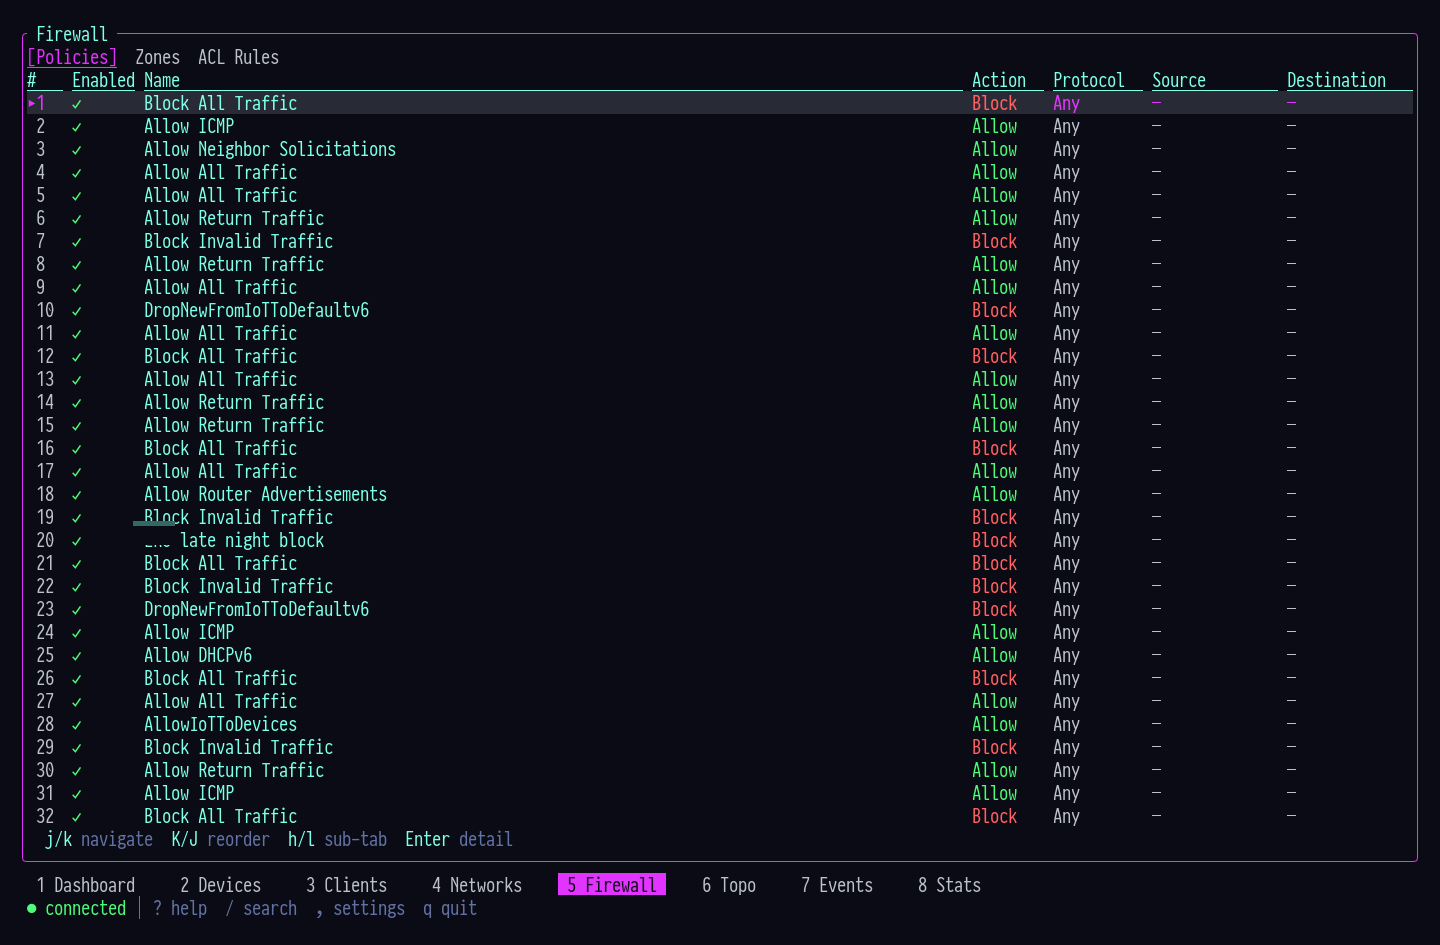
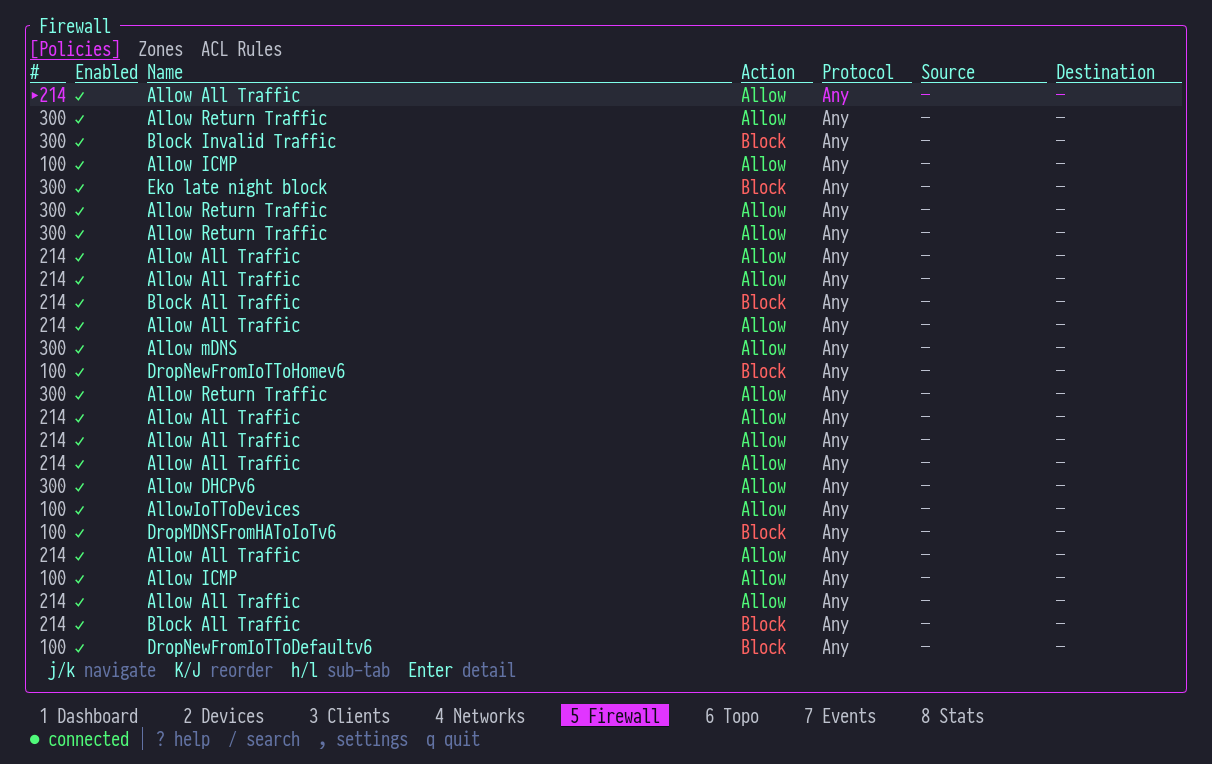
docs: refresh README screenshots and expand TUI documentation
Capture fresh screenshots of all 8 TUI screens with sensitive data
redacted (WAN IPs, family member hostnames). Expand README with
comprehensive keybinding tables, stats screen documentation, and
updated feature descriptions reflecting recent work.

Changed region(s): [[0.0, 0.0301, 1.0, 0.9935]]

diff --git a/README.md b/README.md
@@ -45,15 +45,16 @@ The Integration API handles CRUD. The Legacy API fills the gaps with events, sta
 
 | Capability | What You Get |
 | --- | --- |
-| 🔮 **Dual API Engine** | Integration API (REST, API key) + Legacy API (session, cookie/CSRF) — automatic negotiation |
-| ⚡ **Real-Time TUI** | btop-inspired dashboard with Braille traffic charts, CPU/MEM bars, live client counts |
-| 🦋 **20+ Resource Types** | Devices, clients, networks, WiFi, firewall policies, zones, ACLs, DNS, VPN, hotspot vouchers, DPI... |
+| 🔮 **Dual API Engine** | Integration API (REST, API key) + Legacy API (session, cookie/CSRF) — automatic negotiation with Hybrid mode |
+| ⚡ **Real-Time TUI** | 8-screen dashboard with area-fill traffic charts, CPU/MEM gauges, live client counts, zoomable topology |
+| 🦋 **22 Resource Types** | Devices, clients, networks, WiFi, firewall policies, zones, ACLs, DNS, VPN, hotspot vouchers, DPI, RADIUS... |
 | 💎 **Flexible Output** | Table, JSON, compact JSON, YAML, and plain text — pipe-friendly for scripting |
 | 🔒 **Secure Credentials** | OS keyring storage for API keys and passwords — nothing in plaintext |
 | 🌐 **Multi-Profile** | Named profiles for multiple controllers — switch with a single flag |
 | 🧠 **Smart Config** | Interactive wizard, environment variables, TOML config, CLI overrides — pick your style |
-| 📡 **WebSocket Events** | Live event streaming with severity filtering and real-time push |
-| 📊 **Historical Stats** | Gateway bandwidth, client counts, site stats — 1h to 30d time windows |
+| 📡 **WebSocket Events** | Live event streaming with 10K rolling buffer, severity filtering, pause/scroll-back |
+| 📊 **Historical Stats** | WAN bandwidth area fills, client counts, DPI app/category breakdown — 1h to 30d windows |
+| 🎨 **SilkCircuit Theme** | Neon-on-dark color palette with semantic highlighting, ANSI fallback, responsive layouts |
 
 ---
 
@@ -162,28 +163,28 @@ Best of both worlds — API key for Integration API CRUD, username/password for 
 
 | Command | Alias | Description |
 | --- | --- | --- |
-| `devices` | `d` | Manage adopted and pending devices |
-| `clients` | `cl` | Manage connected clients |
-| `networks` | `n` | Manage networks and VLANs |
-| `wifi` | `w` | Manage WiFi broadcasts (SSIDs) |
-| `firewall` | `fw` | Manage firewall policies and zones |
 | `acl` | | Manage ACL rules |
-| `dns` | | Manage DNS policies (local records) |
-| `traffic-lists` | | Manage traffic matching lists |
-| `hotspot` | | Manage hotspot vouchers |
-| `vpn` | | View VPN servers and tunnels |
-| `sites` | | Manage sites |
-| `events` | | View and stream events |
+| `admin` | | Administrator management |
 | `alarms` | | Manage alarms |
+| `clients` | `cl` | Manage connected clients |
+| `completions` | | Generate shell completions |
+| `config` | | Manage CLI configuration |
+| `countries` | | List available country codes |
+| `devices` | `d` | Manage adopted and pending devices |
+| `dns` | | Manage DNS policies (local records) |
+| `dpi` | | DPI reference data |
+| `events` | | View and stream events |
+| `firewall` | `fw` | Manage firewall policies and zones |
+| `hotspot` | | Manage hotspot vouchers |
+| `networks` | `n` | Manage networks and VLANs |
+| `radius` | | View RADIUS profiles |
+| `sites` | | Manage sites |
 | `stats` | | Query statistics and reports |
 | `system` | `sys` | System operations and info |
-| `admin` | | Administrator management |
-| `dpi` | | DPI reference data |
-| `radius` | | View RADIUS profiles |
+| `traffic-lists` | | Manage traffic matching lists |
+| `vpn` | | View VPN servers and tunnels |
 | `wans` | | View WAN interfaces |
-| `countries` | | List available country codes |
-| `config` | | Manage CLI configuration |
-| `completions` | | Generate shell completions |
+| `wifi` | `w` | Manage WiFi broadcasts (SSIDs) |
 
 Most commands support `list`, `get`, `create`, `update`, and `delete` subcommands. Run `unifly <command> --help` for details.
 
@@ -219,11 +220,12 @@ unifly completions fish > ~/.config/fish/completions/unifly.fish
 
 ## 🖥 TUI
 
-The `unifly-tui` binary is a real-time terminal dashboard for monitoring your UniFi network.
+The `unifly-tui` binary is a real-time terminal dashboard for monitoring and managing your UniFi network. Eight screens cover everything from live bandwidth charts to firewall policy management.
 
 ```bash
 unifly-tui                   # Launch with default profile
 unifly-tui -p office         # Use a specific profile
+unifly-tui -k                # Accept self-signed TLS certs
 unifly-tui -v                # Verbose logging
 ```
 
@@ -233,51 +235,102 @@ Navigate with number keys `1`–`8` or `Tab`/`Shift+Tab`:
 
 | Key | Screen | Description |
 | --- | --- | --- |
-| `1` | **Dashboard** | btop-style overview — WAN traffic chart, gateway info, system health, networks with IPv6, top clients, recent events |
-| `2` | **Devices** | Adopted devices with model, firmware, IP, uptime, CPU/MEM, client counts |
-| `3` | **Clients** | Connected clients — hostname, IP, MAC, VLAN, signal strength, traffic |
-| `4` | **Networks** | VLAN topology — subnets, DHCP ranges, IPv6 config, IGMP settings |
-| `5` | **Firewall** | Policies and zones with rule counts and traffic direction |
-| `6` | **Topology** | Network topology tree view |
-| `7` | **Events** | Live event stream with severity indicators |
-| `8` | **Stats** | Historical charts — WAN bandwidth, client counts, DPI breakdown |
+| `1` | **Dashboard** | btop-style overview — area-fill WAN traffic chart, gateway info, connectivity health, CPU/MEM bars, networks with IPv6, WiFi AP experience, top clients, recent events |
+| `2` | **Devices** | Adopted devices with model, IP, CPU/MEM, TX/RX, uptime — 5-tab detail panel (Overview, Performance, Radios, Clients, Ports) |
+| `3` | **Clients** | Connected clients — hostname, IP, MAC, VLAN, signal bars, traffic — filterable by type (All/Wireless/Wired/VPN/Guest) |
+| `4` | **Networks** | VLAN topology — subnets, DHCP, IPv6, gateway type — inline edit overlay for live config changes |
+| `5` | **Firewall** | Policies, zones, and ACL rules across three sub-tabs — visual rule reordering |
+| `6` | **Topology** | Zoomable network topology tree — gateway → switches → APs, color-coded by type and state |
+| `7` | **Events** | Live event stream with 10K rolling buffer — pause, scroll back, severity color-coding |
+| `8` | **Stats** | Historical charts — WAN bandwidth area fills, client counts, DPI app/category breakdown (1h/24h/7d/30d) |
 
 ### Dashboard
 
-The dashboard packs seven live panels into a single view:
+The dashboard packs eight live panels into a dense, information-rich overview:
 
 <p align="center">
   <img src="docs/images/dashboard.png" alt="unifly-tui dashboard" width="900">
 </p>
 
-- **WAN Traffic** — Braille line chart with live TX/RX rates and peak tracking
-- **Gateway** — WAN IP, DNS, latency, uptime, ISP name, IPv6 when available
-- **System Health** — Subsystem status dots, CPU/MEM utilization bars, load averages
-- **Networks** — VLANs sorted by ID with IPv6 prefix delegation and mode
+- **WAN Traffic** — Area-fill chart with Braille line overlay, live TX/RX rates, peak tracking
+- **Gateway** — Model, firmware, WAN IP, IPv6, DNS, ISP, latency, uptime
+- **Connectivity** — Subsystem status dots (WAN/WWW/WLAN/LAN/VPN), aggregate traffic bars
+- **Capacity** — Color-coded CPU/MEM gauges, load averages, device/client fleet summary
+- **Networks** — VLANs sorted by ID with IPv6 prefix delegation and SLAAC mode
+- **WiFi / APs** — Client count, WiFi experience %, channel info per access point
 - **Top Clients** — Proportional traffic bars with fractional block characters
-- **Recent Events** — Compact two-per-line event display
+- **Recent Events** — Two-column compact event display, color-coded by severity
 
-### Devices & Firewall
+### Devices & Clients
 
 <p align="center">
   <img src="docs/images/devices.png" alt="unifly-tui devices" width="900">
 </p>
 
 <p align="center">
+  <img src="docs/images/clients.png" alt="unifly-tui clients" width="900">
+</p>
+
+### Networks & Firewall
+
+<p align="center">
+  <img src="docs/images/networks.png" alt="unifly-tui networks" width="900">
+</p>
+
+<p align="center">
   <img src="docs/images/firewall.png" alt="unifly-tui firewall" width="900">
 </p>
 
+### Stats
+
+Historical statistics with selectable time windows and dual-API data sourcing:
+
+<p align="center">
+  <img src="docs/images/stats.png" alt="unifly-tui stats" width="900">
+</p>
+
+- **WAN Bandwidth** — TX/RX area fills with Braille line overlay, auto-scaling axes
+- **Client Count** — Braille line chart tracking connected clients over time
+- **Top Applications** — DPI application breakdown with proportional bars (Integration API names, Legacy fallback)
+- **Traffic by Category** — Percentage bars for streaming, gaming, social, etc.
+
 ### Key Bindings
+
+#### Global
 
 | Key | Action |
 | --- | --- |
-| `1`–`8` | Switch screens |
+| `1`–`8` | Jump to screen |
 | `Tab` / `Shift+Tab` | Next / previous screen |
-| `j` / `k` | Scroll down / up |
-| `Enter` | Open detail view |
+| `j` / `k` / `↑` / `↓` | Navigate up / down |
+| `g` / `G` | Jump to top / bottom |
+| `Ctrl+d` / `Ctrl+u` | Page down / up |
+| `Enter` | Select / expand detail |
 | `Esc` | Close detail / go back |
-| `/` | Search / filter |
+| `/` | Search |
+| `?` | Help overlay |
+| `,` | Settings |
 | `q` | Quit |
+
+#### Screen-Specific
+
+| Screen | Key | Action |
+| --- | --- | --- |
+| **Devices** | `R` | Restart device |
+| **Devices** | `L` | Locate (flash LED) |
+| **Devices** (detail) | `h` / `l` | Previous / next detail tab |
+| **Clients** | `Tab` | Cycle filter (All → Wireless → Wired → VPN → Guest) |
+| **Clients** | `b` / `B` | Block / unblock client |
+| **Clients** | `x` | Kick client |
+| **Networks** | `e` | Edit selected network |
+| **Firewall** | `h` / `l` | Cycle sub-tabs (Policies / Zones / ACL Rules) |
+| **Firewall** | `K` / `J` | Reorder policy up / down |
+| **Topology** | `←` `→` `↑` `↓` | Pan canvas |
+| **Topology** | `+` / `-` | Zoom in / out |
+| **Topology** | `f` | Fit to view |
+| **Events** | `Space` | Pause / resume live stream |
+| **Stats** | `h` `d` `w` `m` | Period: 1h / 24h / 7d / 30d |
+| **Stats** | `r` | Refresh |
 
 ---
 
@@ -305,7 +358,7 @@ Five crates, clean dependency chain:
 | **unifly-core** | Controller lifecycle, DataStore (`DashMap` + `tokio::watch`), entity models, reactive streams |
 | **unifly-config** | Profile management, keyring integration, TOML config, environment variable overlay |
 | **unifly** | CLI binary — clap-based command routing, output formatting, shell completions |
-| **unifly-tui** | TUI binary — ratatui screens, Braille charts, SilkCircuit theme, real-time data bridge |
+| **unifly-tui** | TUI binary — 8-screen ratatui dashboard, area-fill charts, SilkCircuit theme, real-time data bridge |
 
 ### Data Flow
 
